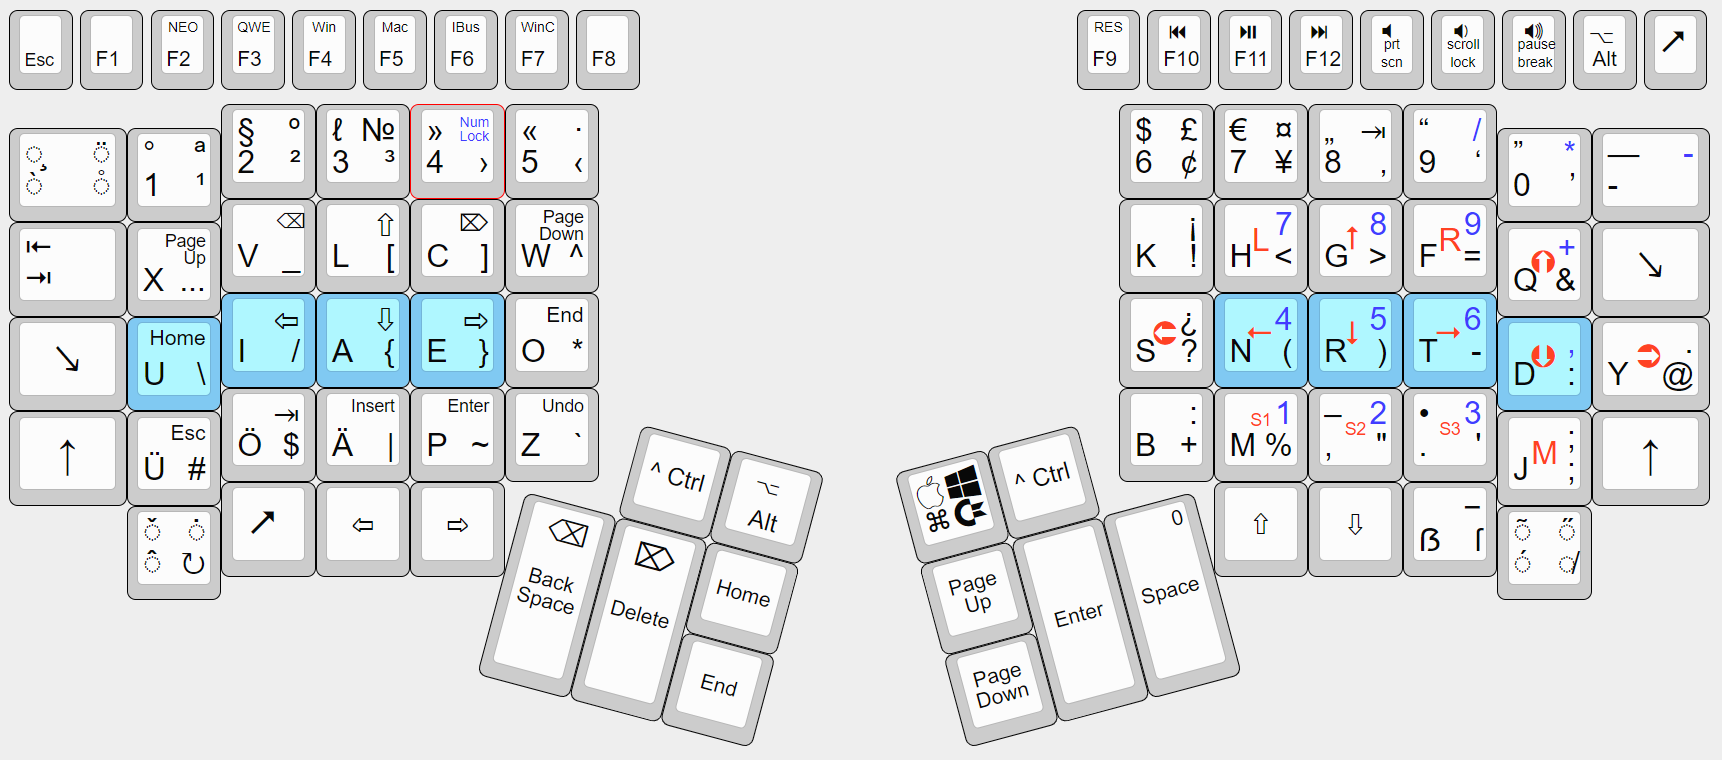
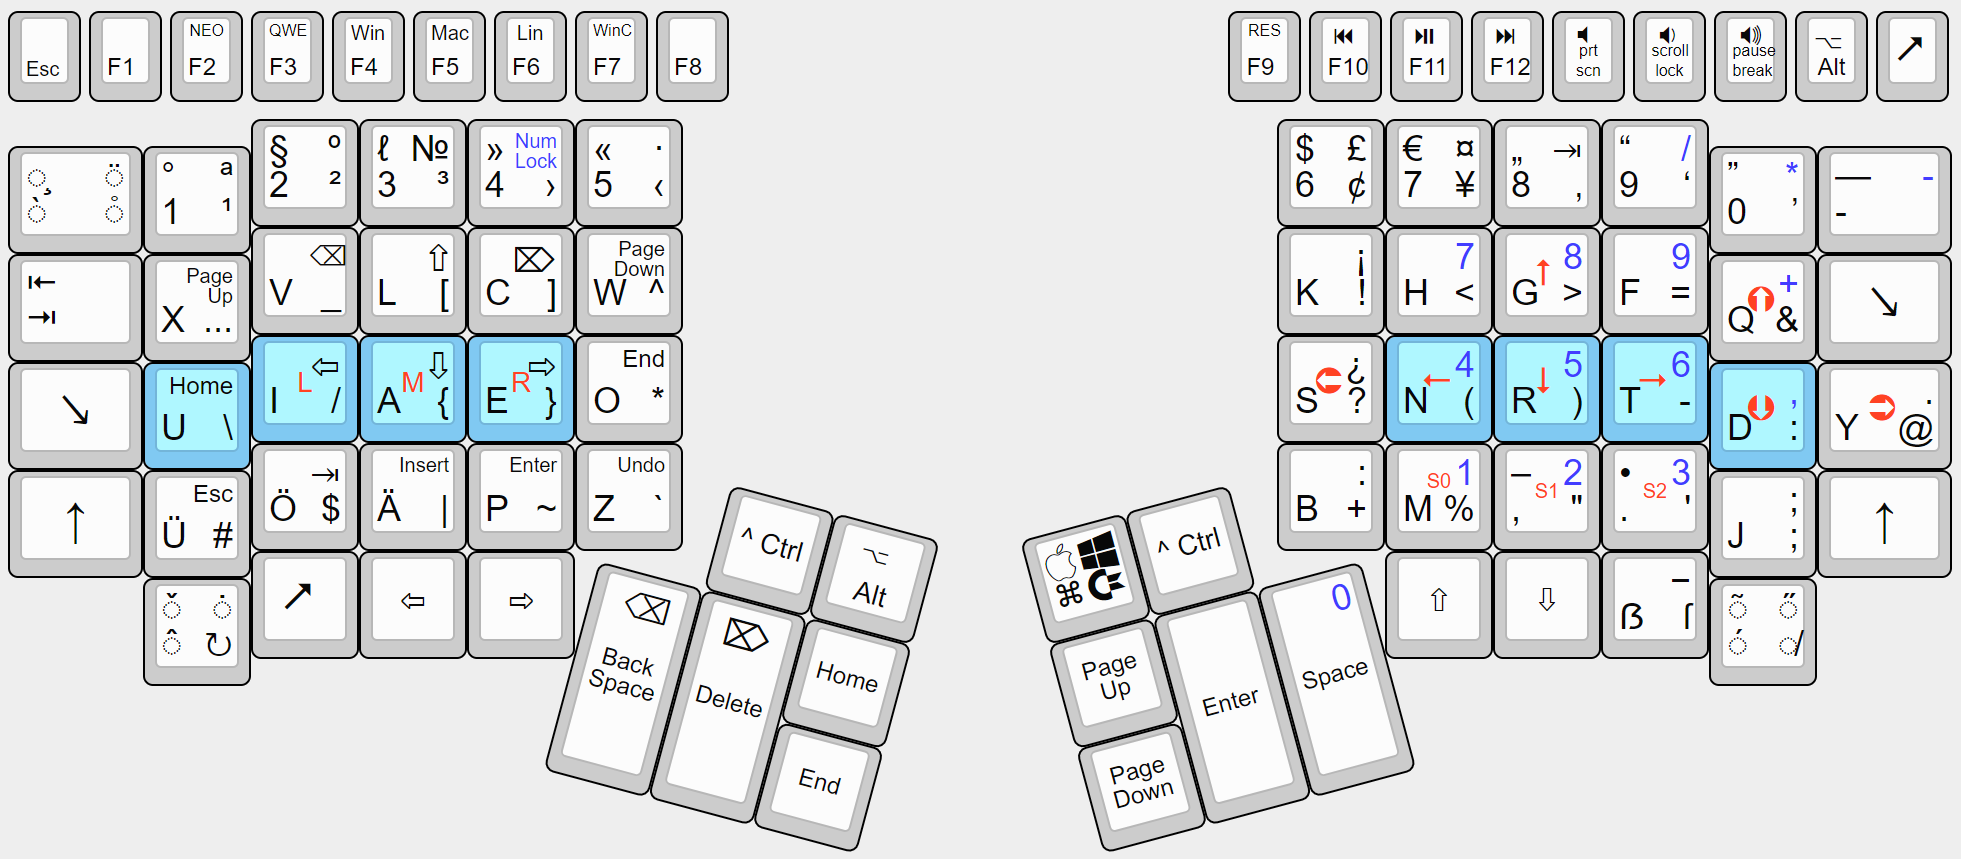
Added more keycodes, link to keyboard-layout-editor

Changed region(s): [[0.5232, 0.0, 1.0, 0.9987], [0.0, 0.0, 0.4925, 0.9987]]

diff --git a/keyboards/kinesis/keymaps/neolike/keymap.c b/keyboards/kinesis/keymaps/neolike/keymap.c
@@ -174,20 +174,20 @@ const uint16_t PROGMEM keymaps[][MATRIX_ROWS][MATRIX_COLS] = {
 
 [LAYER4] = LAYOUT(
            _______,_______,_______,DF(QWERTY),UC_M_WI,UC_M_MA,UC_M_LN,UC_M_WC,_______,
-           UC(0x308),_______,_______,_______,_______,_______,
-           _______,_______,_______,_______,_______,_______,
-           _______,_______,_______,_______,_______,_______,
-           _______,_______,_______,_______,_______,_______,
+           UC(0x308),UC(0xAA),UC(0xBA),UC(0x2116),KC_NLCK,UC(0xB7),
+           _______,KC_PGUP,KC_BSPC,KC_UP  ,KC_DEL ,KC_PGDN,
+           _______,KC_HOME,KC_LEFT,KC_DOWN,KC_RGHT,KC_END,
+           _______,KC_ESC,KC_TAB,KC_INS,KC_ENT,KC_UNDO,
                    UC(0x307),_______,_______,_______,
 			   _______,_______,
                                    _______,
                            _______,_______,_______,
 
     RESET,KC_MPRV,KC_MPLY,KC_MNXT,KC__MUTE,KC__VOLDOWN,KC__VOLUP,_______,_______,
-	_______,_______,_______,KC_PSLS,KC_PAST,KC_PMNS,
-	_______,KC_KP_7,KC_KP_8,KC_KP_9,KC_PPLS,_______,
-	_______,KC_KP_4,KC_KP_5,KC_KP_6,KC_PDOT,_______,
-	_______,KC_KP_1,KC_KP_2,KC_KP_3,_______,_______,
+	UC(0xA3),UC(0xA4),KC_TAB,KC_PSLS,KC_PAST,KC_PMNS,
+	UC(0xA1),KC_KP_7,KC_KP_8,KC_KP_9,KC_PPLS,_______,
+	UC(0xBF),KC_KP_4,KC_KP_5,KC_KP_6,KC_PDOT,KC_DOT,
+	KC_COLN,KC_KP_1,KC_KP_2,KC_KP_3,KC_SCLN,_______,
 		_______,_______,_______,UC(0x30B),
            _______,_______,
            _______,
@@ -195,22 +195,22 @@ const uint16_t PROGMEM keymaps[][MATRIX_ROWS][MATRIX_COLS] = {
     ),
 
 [LAYER5] = LAYOUT(
-           _______,_______,_______,DF(QWERTY),UC_M_WI,UC_M_MA,UC_M_LN,UC_M_WC,_______,
-           UC(0x308),_______,_______,_______,_______,_______,
+           _______,_______,_______,_______,_______,_______,_______,_______,_______,
+           XXXXXXX,_______,_______,_______,_______,_______,
            _______,_______,_______,_______,_______,_______,
+           _______,_______,KC_BTN1,KC_BTN3,KC_BTN2,_______,
            _______,_______,_______,_______,_______,_______,
-           _______,_______,_______,_______,_______,_______,
-                   UC(0x307),_______,_______,_______,
+                   XXXXXXX,_______,_______,_______,
 			   _______,_______,
                                    _______,
                            _______,_______,_______,
 
-    RESET,KC_MPRV,KC_MPLY,KC_MNXT,KC__MUTE,KC__VOLDOWN,KC__VOLUP,_______,_______,
+    _______,_______,_______,_______,_______,_______,_______,_______,_______,
 	_______,_______,_______,_______,_______,_______,
-	_______,_______,_______,_______,_______,_______,
-	_______,_______,_______,_______,_______,_______,
-	_______,_______,_______,_______,_______,_______,
-		_______,_______,_______,UC(0x30B),
+	_______,_______,KC_MS_U,_______,KC_WH_U,_______,
+	KC_WH_L,KC_MS_L,KC_MS_D,KC_MS_R,KC_WH_D,KC_WH_R,
+	_______,KC_ACL0,KC_ACL1,KC_ACL2,_______,_______,
+		_______,_______,_______,XXXXXXX,
            _______,_______,
            _______,
            _______,_______,_______

diff --git a/keyboards/kinesis/keymaps/neolike/readme.md b/keyboards/kinesis/keymaps/neolike/readme.md
@@ -6,6 +6,8 @@ But here comes the specialty of this layout: In emulates the [Neo2](https://neo-
 
 ![layout](neolayout.png)
 
+[Source](http://www.keyboard-layout-editor.com/#/gists/08880ef9eebac075152326be4d637a2c)
+
 Blue glyphs represent numpad scancodes, red symbols represent mouse keys. To use the latter, hold shift and mod3 (labelled "caps lock") with the left pinkie.
 
 The layout uses scancodes when possible, Unicode when necessary. You need to configure as follows:
@@ -17,7 +19,7 @@ Mac | progm-F5 (labelled "mac") | Unicode Hex Input
 IBus enabled systems | progm-F6 (labelled "pc") | US International with all the dead keys
 Windows Compose | progm-F7 (labelled "win") | US International (you also have to have [WinCompose](https://github.com/samhocevar/wincompose) running)
 
-Currently, the Neo mode emulates the first 4 layers of the Neo2 layout. The right side of layer 5 is used by mouse keys. Please note that there is no numpad in Neo mode as that would be too confusing. Tha basic numpad scancodes are available on Neo layer 4, the symbols on higher numpad layers are unavailable. 
+Currently, the Neo mode emulates the first 4 layers of the Neo2 layout. Parts of layer 5 are used by mouse keys. Please note that there is no numpad in Neo mode as that would be too confusing. Tha basic numpad scancodes are available on Neo layer 4, the symbols on higher numpad layers are unavailable. 
 
 ## To do
 
